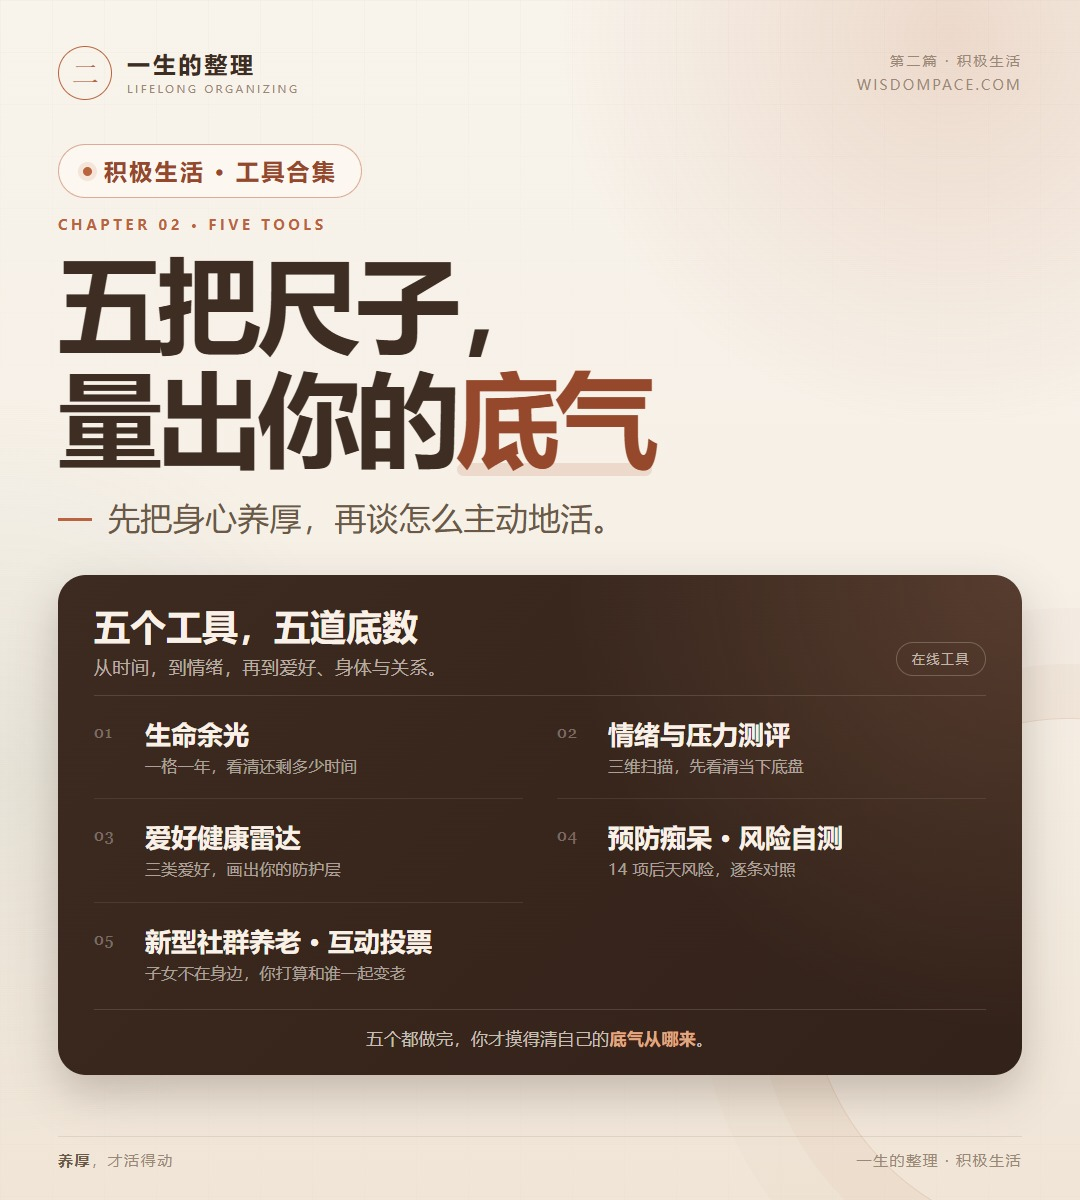
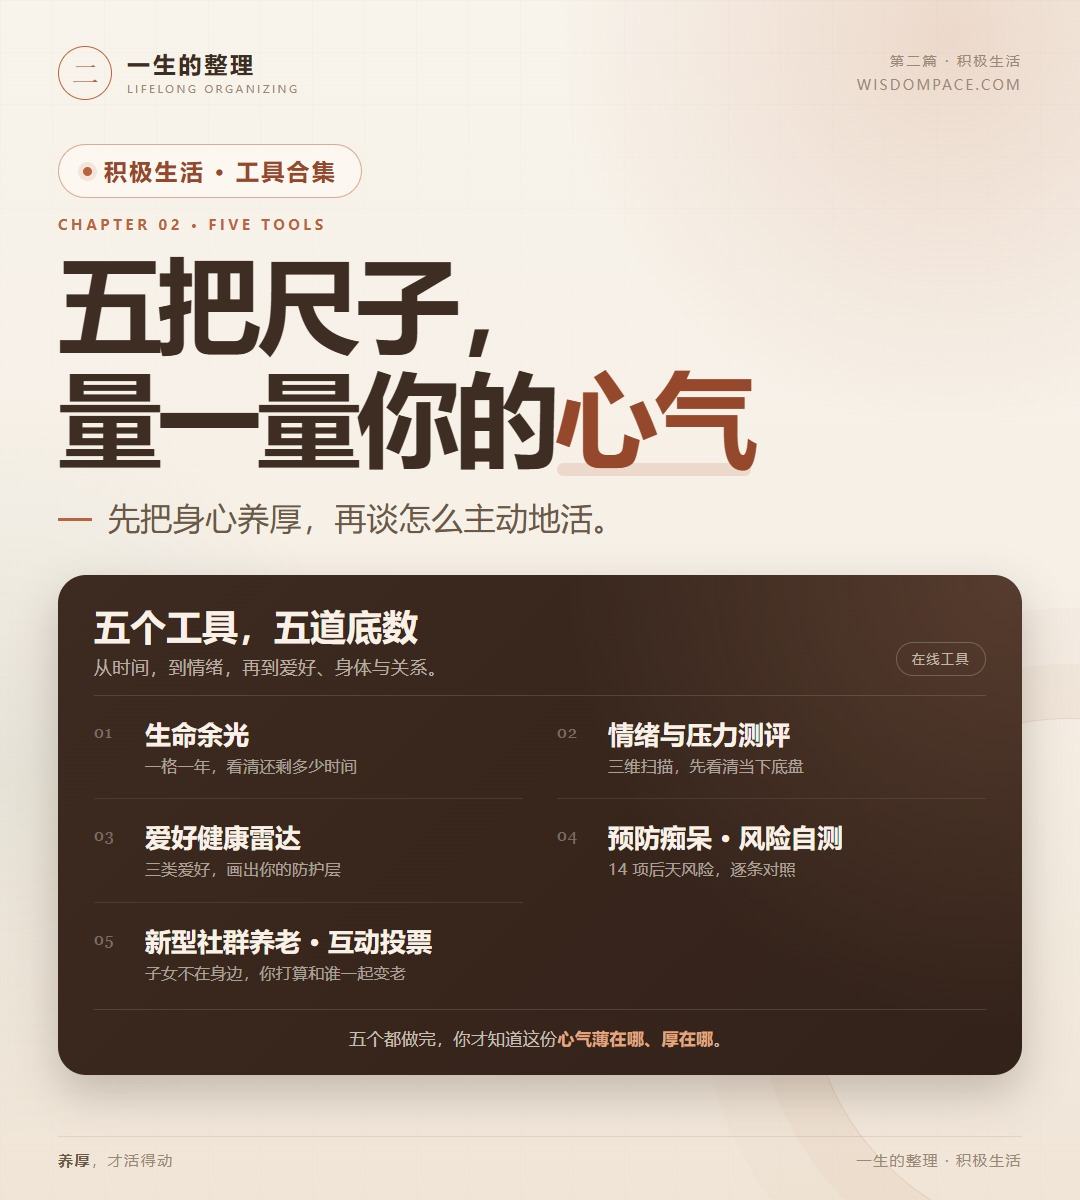
posters: 第二篇封面主标题定稿「量一量你的心气」

Changed region(s): [[0.1528, 0.3083, 0.7028, 0.4008], [0.3361, 0.8325, 0.6722, 0.8942]]

diff --git a/posters/chapter2-cover.html b/posters/chapter2-cover.html
@@ -302,7 +302,7 @@
     <section class="hero">
       <div class="tool-chip"><span class="dot"></span>积极生活 · 工具合集</div>
       <p class="kicker">CHAPTER 02 · FIVE TOOLS</p>
-      <h1>五把尺子，<br />量出你的<span class="accent">底气</span></h1>
+      <h1>五把尺子，<br />量一量你的<span class="accent">心气</span></h1>
       <p class="slogan">先把身心养厚，再谈怎么主动地活。</p>
     </section>
 
@@ -351,7 +351,7 @@
           </div>
         </div>
       </div>
-      <p class="stage-foot">五个都做完，你才摸得清自己的<strong>底气从哪来</strong>。</p>
+      <p class="stage-foot">五个都做完，你才知道这份<strong>心气薄在哪、厚在哪</strong>。</p>
     </section>
 
     <footer class="footer">
